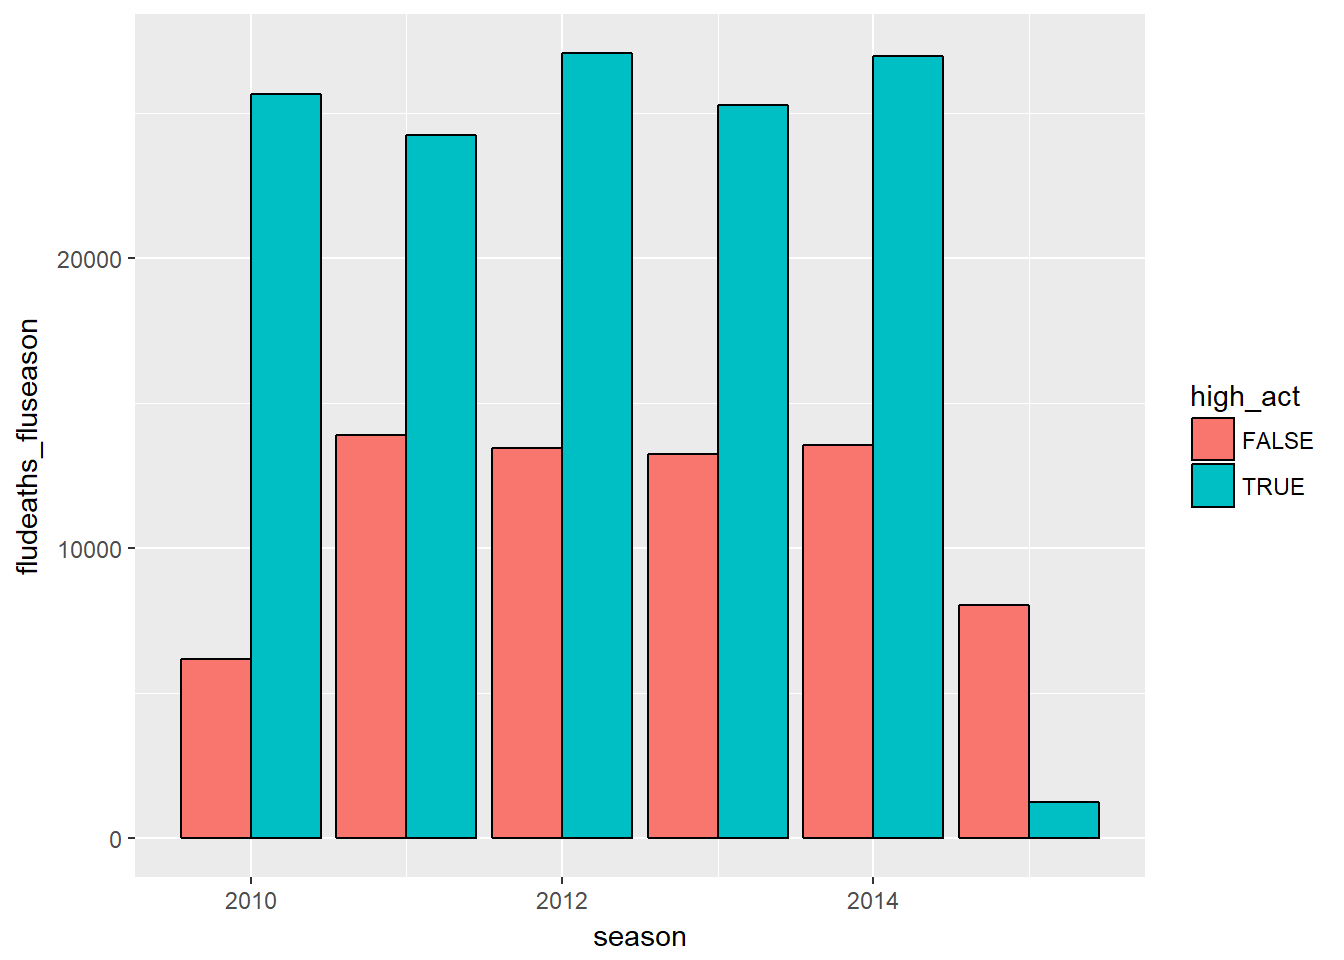
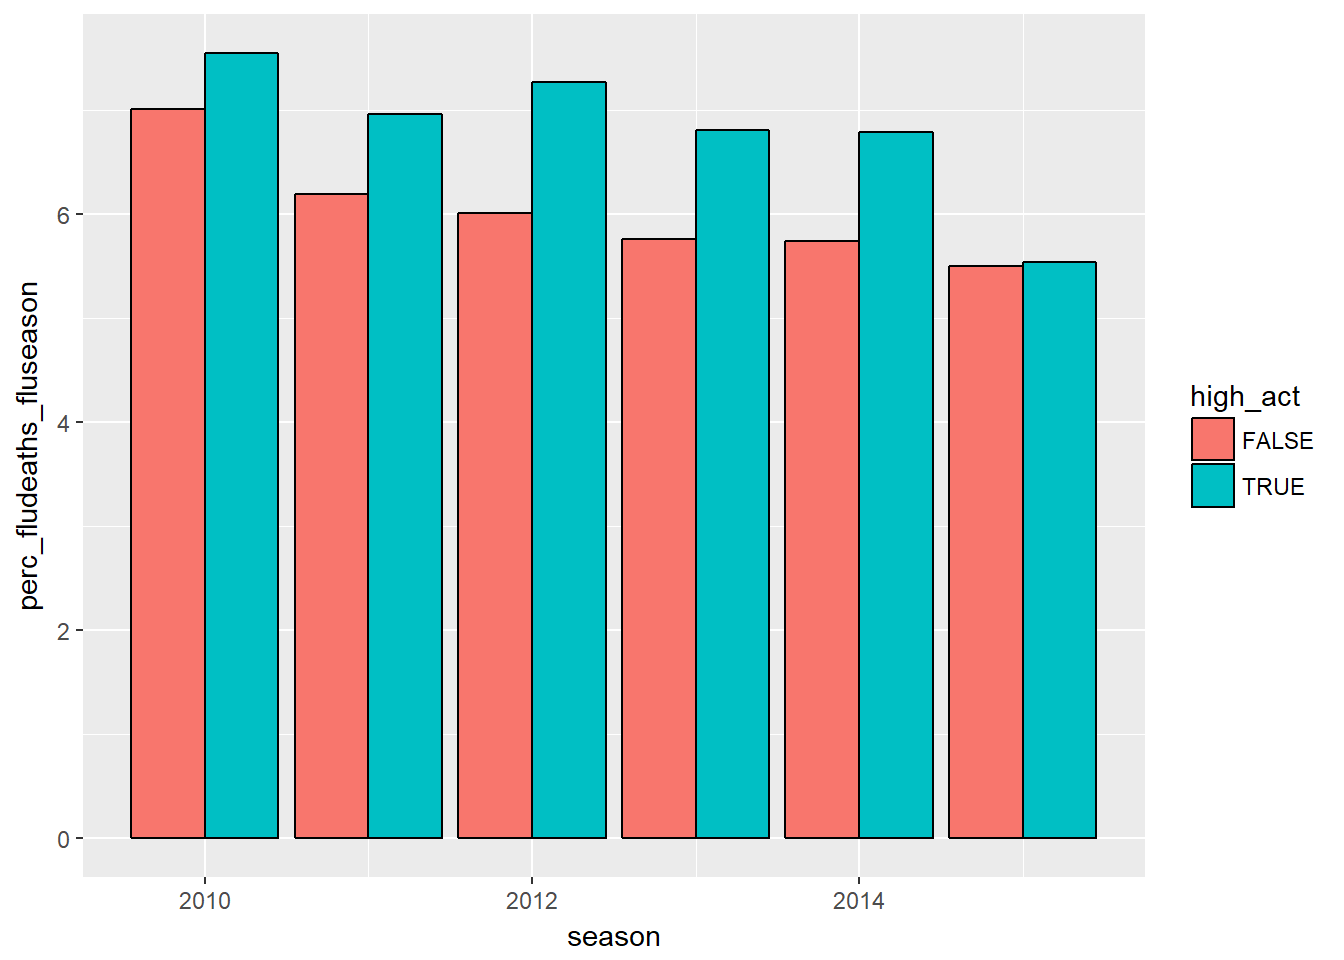
rebuilt vignettes

diff --git a/docs/articles/05-modserf.html b/docs/articles/05-modserf.html
@@ -316,65 +316,65 @@ flu_ex_mod &lt;-<span class="st"> </span><span class="kw">mflu</span>(flu_ex, <s
 <span class="co">#&gt;  date     2017-12-21                  </span>
 <span class="co">#&gt; </span>
 <span class="co">#&gt; - Packages --------------------------------------------------------------</span>
-<span class="co">#&gt;  package     * version    date       source                             </span>
-<span class="co">#&gt;  assertthat    0.2.0      2017-04-11 CRAN (R 3.4.0)                     </span>
-<span class="co">#&gt;  backports     1.1.2      2017-12-13 CRAN (R 3.4.2)                     </span>
-<span class="co">#&gt;  bindr         0.1        2016-11-13 CRAN (R 3.4.0)                     </span>
-<span class="co">#&gt;  bindrcpp    * 0.2        2017-06-17 CRAN (R 3.4.2)                     </span>
-<span class="co">#&gt;  broom         0.4.3      2017-11-20 CRAN (R 3.4.2)                     </span>
-<span class="co">#&gt;  cellranger    1.1.0      2016-07-27 CRAN (R 3.4.2)                     </span>
-<span class="co">#&gt;  cli           1.0.0      2017-12-14 Github (r-lib/cli@ab1c3aa)         </span>
-<span class="co">#&gt;  clisymbols    1.2.0      2017-05-21 CRAN (R 3.4.3)                     </span>
-<span class="co">#&gt;  colorspace    1.3-2      2016-12-14 CRAN (R 3.4.0)                     </span>
-<span class="co">#&gt;  crayon        1.3.4      2017-10-27 Github (r-lib/crayon@b5221ab)      </span>
-<span class="co">#&gt;  digest        0.6.13     2017-12-14 CRAN (R 3.4.3)                     </span>
-<span class="co">#&gt;  dplyr       * 0.7.4.9000 2017-12-20 Github (hadley/dplyr@85e31dd)      </span>
-<span class="co">#&gt;  evaluate      0.10.1     2017-06-24 CRAN (R 3.4.1)                     </span>
-<span class="co">#&gt;  flumodelr   * 0.0.4.9000 2017-12-21 local                              </span>
-<span class="co">#&gt;  forcats     * 0.2.0      2017-01-23 CRAN (R 3.4.2)                     </span>
-<span class="co">#&gt;  foreign       0.8-69     2017-06-22 CRAN (R 3.4.2)                     </span>
-<span class="co">#&gt;  ggplot2     * 2.2.1      2016-12-30 CRAN (R 3.4.0)                     </span>
-<span class="co">#&gt;  glue          1.2.0      2017-10-29 CRAN (R 3.4.2)                     </span>
-<span class="co">#&gt;  gtable        0.2.0      2016-02-26 CRAN (R 3.4.0)                     </span>
-<span class="co">#&gt;  haven         1.1.0      2017-07-09 CRAN (R 3.4.2)                     </span>
-<span class="co">#&gt;  hms           0.4.0      2017-11-23 CRAN (R 3.4.2)                     </span>
-<span class="co">#&gt;  htmltools     0.3.6      2017-04-28 CRAN (R 3.4.0)                     </span>
-<span class="co">#&gt;  httr          1.3.1      2017-08-20 CRAN (R 3.4.1)                     </span>
-<span class="co">#&gt;  jsonlite      1.5        2017-06-01 CRAN (R 3.4.0)                     </span>
-<span class="co">#&gt;  knitr         1.17       2017-08-10 CRAN (R 3.4.1)                     </span>
-<span class="co">#&gt;  labeling      0.3        2014-08-23 CRAN (R 3.4.0)                     </span>
-<span class="co">#&gt;  lattice       0.20-35    2017-03-25 CRAN (R 3.4.2)                     </span>
-<span class="co">#&gt;  lazyeval      0.2.1      2017-10-29 CRAN (R 3.4.2)                     </span>
-<span class="co">#&gt;  lubridate   * 1.7.1      2017-11-03 CRAN (R 3.4.2)                     </span>
-<span class="co">#&gt;  magrittr      1.5        2014-11-22 CRAN (R 3.4.0)                     </span>
-<span class="co">#&gt;  mnormt        1.5-5      2016-10-15 CRAN (R 3.4.1)                     </span>
-<span class="co">#&gt;  modelr        0.1.1      2017-07-24 CRAN (R 3.4.2)                     </span>
-<span class="co">#&gt;  munsell       0.4.3      2016-02-13 CRAN (R 3.4.0)                     </span>
-<span class="co">#&gt;  nlme          3.1-131    2017-02-06 CRAN (R 3.4.2)                     </span>
-<span class="co">#&gt;  pkgconfig     2.0.1      2017-03-21 CRAN (R 3.4.0)                     </span>
-<span class="co">#&gt;  plyr          1.8.4      2016-06-08 CRAN (R 3.4.0)                     </span>
-<span class="co">#&gt;  psych         1.7.8      2017-09-09 CRAN (R 3.4.2)                     </span>
-<span class="co">#&gt;  purrr       * 0.2.4      2017-10-18 CRAN (R 3.4.2)                     </span>
-<span class="co">#&gt;  R6            2.2.2      2017-06-17 CRAN (R 3.4.0)                     </span>
-<span class="co">#&gt;  Rcpp          0.12.14    2017-11-23 CRAN (R 3.4.2)                     </span>
-<span class="co">#&gt;  readr       * 1.1.1      2017-05-16 CRAN (R 3.4.2)                     </span>
-<span class="co">#&gt;  readxl        1.0.0      2017-04-18 CRAN (R 3.4.2)                     </span>
-<span class="co">#&gt;  reshape2      1.4.3      2017-12-11 CRAN (R 3.4.3)                     </span>
-<span class="co">#&gt;  rlang         0.1.4.9000 2017-12-20 Github (tidyverse/rlang@cc7587c)   </span>
-<span class="co">#&gt;  rmarkdown     1.8        2017-11-17 CRAN (R 3.4.2)                     </span>
-<span class="co">#&gt;  rprojroot     1.2        2017-01-16 CRAN (R 3.4.1)                     </span>
-<span class="co">#&gt;  rstudioapi    0.7.0-9000 2017-12-14 Github (rstudio/rstudioapi@335f257)</span>
-<span class="co">#&gt;  rvest         0.3.2      2016-06-17 CRAN (R 3.4.2)                     </span>
-<span class="co">#&gt;  scales      * 0.5.0      2017-08-24 CRAN (R 3.4.2)                     </span>
-<span class="co">#&gt;  sessioninfo   1.0.1.9000 2017-12-14 Github (r-lib/sessioninfo@c871d01) </span>
-<span class="co">#&gt;  stringi       1.1.6      2017-11-17 CRAN (R 3.4.2)                     </span>
-<span class="co">#&gt;  stringr     * 1.2.0      2017-02-18 CRAN (R 3.4.0)                     </span>
-<span class="co">#&gt;  tibble      * 1.3.4      2017-08-22 CRAN (R 3.4.2)                     </span>
-<span class="co">#&gt;  tidyr       * 0.7.2      2017-10-16 CRAN (R 3.4.2)                     </span>
-<span class="co">#&gt;  tidyselect    0.2.3      2017-11-06 CRAN (R 3.4.2)                     </span>
-<span class="co">#&gt;  tidyverse   * 1.2.1      2017-11-14 CRAN (R 3.4.2)                     </span>
-<span class="co">#&gt;  withr         2.1.0      2017-11-01 CRAN (R 3.4.2)                     </span>
-<span class="co">#&gt;  xml2          1.1.1      2017-01-24 CRAN (R 3.4.1)                     </span>
+<span class="co">#&gt;  package     * version    date       source                               </span>
+<span class="co">#&gt;  assertthat    0.2.0      2017-04-11 CRAN (R 3.4.0)                       </span>
+<span class="co">#&gt;  backports     1.1.2      2017-12-13 CRAN (R 3.4.2)                       </span>
+<span class="co">#&gt;  bindr         0.1        2016-11-13 CRAN (R 3.4.0)                       </span>
+<span class="co">#&gt;  bindrcpp    * 0.2        2017-06-17 CRAN (R 3.4.2)                       </span>
+<span class="co">#&gt;  broom         0.4.3      2017-11-20 CRAN (R 3.4.2)                       </span>
+<span class="co">#&gt;  cellranger    1.1.0      2016-07-27 CRAN (R 3.4.2)                       </span>
+<span class="co">#&gt;  cli           1.0.0      2017-12-14 Github (r-lib/cli@ab1c3aa)           </span>
+<span class="co">#&gt;  clisymbols    1.2.0      2017-05-21 CRAN (R 3.4.3)                       </span>
+<span class="co">#&gt;  colorspace    1.3-2      2016-12-14 CRAN (R 3.4.0)                       </span>
+<span class="co">#&gt;  crayon        1.3.4      2017-10-27 Github (r-lib/crayon@b5221ab)        </span>
+<span class="co">#&gt;  digest        0.6.13     2017-12-14 CRAN (R 3.4.3)                       </span>
+<span class="co">#&gt;  dplyr       * 0.7.4.9000 2017-12-21 Github (hadley/dplyr@c04deb3)        </span>
+<span class="co">#&gt;  evaluate      0.10.1     2017-06-24 CRAN (R 3.4.1)                       </span>
+<span class="co">#&gt;  flumodelr   * 0.0.4.9000 2017-12-21 Github (kmcconeghy/flumodelr@2bac045)</span>
+<span class="co">#&gt;  forcats     * 0.2.0      2017-01-23 CRAN (R 3.4.2)                       </span>
+<span class="co">#&gt;  foreign       0.8-69     2017-06-22 CRAN (R 3.4.2)                       </span>
+<span class="co">#&gt;  ggplot2     * 2.2.1      2016-12-30 CRAN (R 3.4.0)                       </span>
+<span class="co">#&gt;  glue          1.2.0      2017-10-29 CRAN (R 3.4.2)                       </span>
+<span class="co">#&gt;  gtable        0.2.0      2016-02-26 CRAN (R 3.4.0)                       </span>
+<span class="co">#&gt;  haven         1.1.0      2017-07-09 CRAN (R 3.4.2)                       </span>
+<span class="co">#&gt;  hms           0.4.0      2017-11-23 CRAN (R 3.4.2)                       </span>
+<span class="co">#&gt;  htmltools     0.3.6      2017-04-28 CRAN (R 3.4.0)                       </span>
+<span class="co">#&gt;  httr          1.3.1      2017-08-20 CRAN (R 3.4.1)                       </span>
+<span class="co">#&gt;  jsonlite      1.5        2017-06-01 CRAN (R 3.4.0)                       </span>
+<span class="co">#&gt;  knitr         1.17       2017-08-10 CRAN (R 3.4.1)                       </span>
+<span class="co">#&gt;  labeling      0.3        2014-08-23 CRAN (R 3.4.0)                       </span>
+<span class="co">#&gt;  lattice       0.20-35    2017-03-25 CRAN (R 3.4.2)                       </span>
+<span class="co">#&gt;  lazyeval      0.2.1      2017-10-29 CRAN (R 3.4.2)                       </span>
+<span class="co">#&gt;  lubridate   * 1.7.1      2017-11-03 CRAN (R 3.4.2)                       </span>
+<span class="co">#&gt;  magrittr      1.5        2014-11-22 CRAN (R 3.4.0)                       </span>
+<span class="co">#&gt;  mnormt        1.5-5      2016-10-15 CRAN (R 3.4.1)                       </span>
+<span class="co">#&gt;  modelr        0.1.1      2017-07-24 CRAN (R 3.4.2)                       </span>
+<span class="co">#&gt;  munsell       0.4.3      2016-02-13 CRAN (R 3.4.0)                       </span>
+<span class="co">#&gt;  nlme          3.1-131    2017-02-06 CRAN (R 3.4.2)                       </span>
+<span class="co">#&gt;  pkgconfig     2.0.1      2017-03-21 CRAN (R 3.4.0)                       </span>
+<span class="co">#&gt;  plyr          1.8.4      2016-06-08 CRAN (R 3.4.0)                       </span>
+<span class="co">#&gt;  psych         1.7.8      2017-09-09 CRAN (R 3.4.2)                       </span>
+<span class="co">#&gt;  purrr       * 0.2.4      2017-10-18 CRAN (R 3.4.2)                       </span>
+<span class="co">#&gt;  R6            2.2.2      2017-06-17 CRAN (R 3.4.0)                       </span>
+<span class="co">#&gt;  Rcpp          0.12.14    2017-11-23 CRAN (R 3.4.2)                       </span>
+<span class="co">#&gt;  readr       * 1.1.1      2017-05-16 CRAN (R 3.4.2)                       </span>
+<span class="co">#&gt;  readxl        1.0.0      2017-04-18 CRAN (R 3.4.2)                       </span>
+<span class="co">#&gt;  reshape2      1.4.3      2017-12-11 CRAN (R 3.4.3)                       </span>
+<span class="co">#&gt;  rlang         0.1.4.9000 2017-12-20 Github (tidyverse/rlang@cc7587c)     </span>
+<span class="co">#&gt;  rmarkdown     1.8        2017-11-17 CRAN (R 3.4.2)                       </span>
+<span class="co">#&gt;  rprojroot     1.2        2017-01-16 CRAN (R 3.4.1)                       </span>
+<span class="co">#&gt;  rstudioapi    0.7.0-9000 2017-12-14 Github (rstudio/rstudioapi@335f257)  </span>
+<span class="co">#&gt;  rvest         0.3.2      2016-06-17 CRAN (R 3.4.2)                       </span>
+<span class="co">#&gt;  scales      * 0.5.0      2017-08-24 CRAN (R 3.4.2)                       </span>
+<span class="co">#&gt;  sessioninfo   1.0.1.9000 2017-12-14 Github (r-lib/sessioninfo@c871d01)   </span>
+<span class="co">#&gt;  stringi       1.1.6      2017-11-17 CRAN (R 3.4.2)                       </span>
+<span class="co">#&gt;  stringr     * 1.2.0      2017-02-18 CRAN (R 3.4.0)                       </span>
+<span class="co">#&gt;  tibble      * 1.3.4      2017-08-22 CRAN (R 3.4.2)                       </span>
+<span class="co">#&gt;  tidyr       * 0.7.2      2017-10-16 CRAN (R 3.4.2)                       </span>
+<span class="co">#&gt;  tidyselect    0.2.3      2017-11-06 CRAN (R 3.4.2)                       </span>
+<span class="co">#&gt;  tidyverse   * 1.2.1      2017-11-14 CRAN (R 3.4.2)                       </span>
+<span class="co">#&gt;  withr         2.1.0      2017-11-01 CRAN (R 3.4.2)                       </span>
+<span class="co">#&gt;  xml2          1.1.1      2017-01-24 CRAN (R 3.4.1)                       </span>
 <span class="co">#&gt;  yaml          2.1.16     2017-12-12 CRAN (R 3.4.3)</span></code></pre></div>
 </div>
 </div>

diff --git a/docs/reference/ird.html b/docs/reference/ird.html
@@ -194,21 +194,21 @@ respiratory viruses. 2009 Jan 1;3(1):37-49.
     <h2 class="hasAnchor" id="examples"><a class="anchor" href="#examples"></a>Examples</h2>
     <pre class="examples"><div class='input'><span class='fu'>require</span>(<span class='no'>flumodelr</span>)
 <span class='no'>flu_ex</span> <span class='kw'>&lt;-</span> <span class='kw pkg'>flumodelr</span><span class='kw ns'>::</span><span class='no'><a href='http://www.rdocumentation.org/packages/flumodelr/topics/flu_ex'>flu_ex</a></span>
-<span class='no'>flu_fit</span> <span class='kw'>&lt;-</span> <span class='fu'>ird</span>(<span class='kw'>data</span><span class='kw'>=</span><span class='no'>flu_ex</span>, <span class='kw'>flu</span> <span class='kw'>=</span> <span class='st'>"fludeaths"</span>, <span class='kw'>viral</span><span class='kw'>=</span><span class='st'>"prop_flupos"</span>, <span class='kw'>time</span><span class='kw'>=</span><span class='st'>"yrweek_dt"</span>)</div><div class='output co'>#&gt; incidence rate-difference model 
+<span class='no'>flu_fit</span> <span class='kw'>&lt;-</span> <span class='fu'>ird</span>(<span class='kw'>data</span><span class='kw'>=</span><span class='no'>flu_ex</span>, <span class='kw'>flu</span> <span class='kw'>=</span> <span class='st'>"perc_fludeaths"</span>, <span class='kw'>viral</span><span class='kw'>=</span><span class='st'>"prop_flupos"</span>, <span class='kw'>time</span><span class='kw'>=</span><span class='st'>"yrweek_dt"</span>)</div><div class='output co'>#&gt; incidence rate-difference model 
 #&gt;  ============================================================ 
 #&gt; Setting ird parameters...
 #&gt;  'time' variable is: yrweek_dt 
 #&gt;   time interval is: 52 
-#&gt;   flu argument is: fludeaths </div><div class='input'><span class='no'>flu_rates</span> <span class='kw'>&lt;-</span> <span class='fu'>rb</span>(<span class='no'>flu_fit</span>,<span class='st'>"fludeaths"</span>)</div><div class='output co'>#&gt; Setting rb parameters...
-#&gt;   flu argument is: fludeaths </div><div class='input'>
+#&gt;   flu argument is: perc_fludeaths </div><div class='input'><span class='no'>flu_rates</span> <span class='kw'>&lt;-</span> <span class='fu'>rb</span>(<span class='no'>flu_fit</span>, <span class='st'>"perc_fludeaths"</span>)</div><div class='output co'>#&gt; Setting rb parameters...
+#&gt;   flu argument is: perc_fludeaths </div><div class='input'>
 <span class='no'>flu_rates</span></div><div class='output co'>#&gt; # A tibble: 12 x 4
 #&gt; # Groups:   season [?]
-#&gt;   season high_act fludeaths_fluseason fludeaths_viral_act
-#&gt;    &lt;dbl&gt;    &lt;lgl&gt;               &lt;int&gt;               &lt;int&gt;
-#&gt; 1   2010    FALSE                6155               14452
-#&gt; 2   2010     TRUE               25637               17340
-#&gt; 3   2011    FALSE               13883               25533
-#&gt; 4   2011     TRUE               24221               12571
+#&gt;   season high_act perc_fludeaths_fluseason perc_fludeaths_viral_act
+#&gt;    &lt;dbl&gt;    &lt;lgl&gt;                    &lt;dbl&gt;                    &lt;dbl&gt;
+#&gt; 1   2010    FALSE                 7.003711                 6.832168
+#&gt; 2   2010     TRUE                 7.543621                 8.054639
+#&gt; 3   2011    FALSE                 6.192829                 6.469540
+#&gt; 4   2011     TRUE                 6.963083                 7.062596
 #&gt; # ... with 8 more rows</div><div class='input'>
 </div></pre>
   </div>

diff --git a/docs/articles/03-ratediff.html b/docs/articles/03-ratediff.html
@@ -126,9 +126,9 @@
 #&gt; Setting ird parameters...
 #&gt;  'time' variable is: yrweek_dt 
 #&gt;   time interval is: 52 
-#&gt;   flu argument is: fludeaths
+#&gt;   flu argument is: perc_fludeaths
 #&gt; Setting rb parameters...
-#&gt;   flu argument is: fludeaths</code></pre>
+#&gt;   flu argument is: perc_fludeaths</code></pre>
 <p><img src="03-ratediff_files/figure-html/unnamed-chunk-2-1.png" width="672"></p>
 </div>
 <div id="references" class="section level2 unnumbered">
